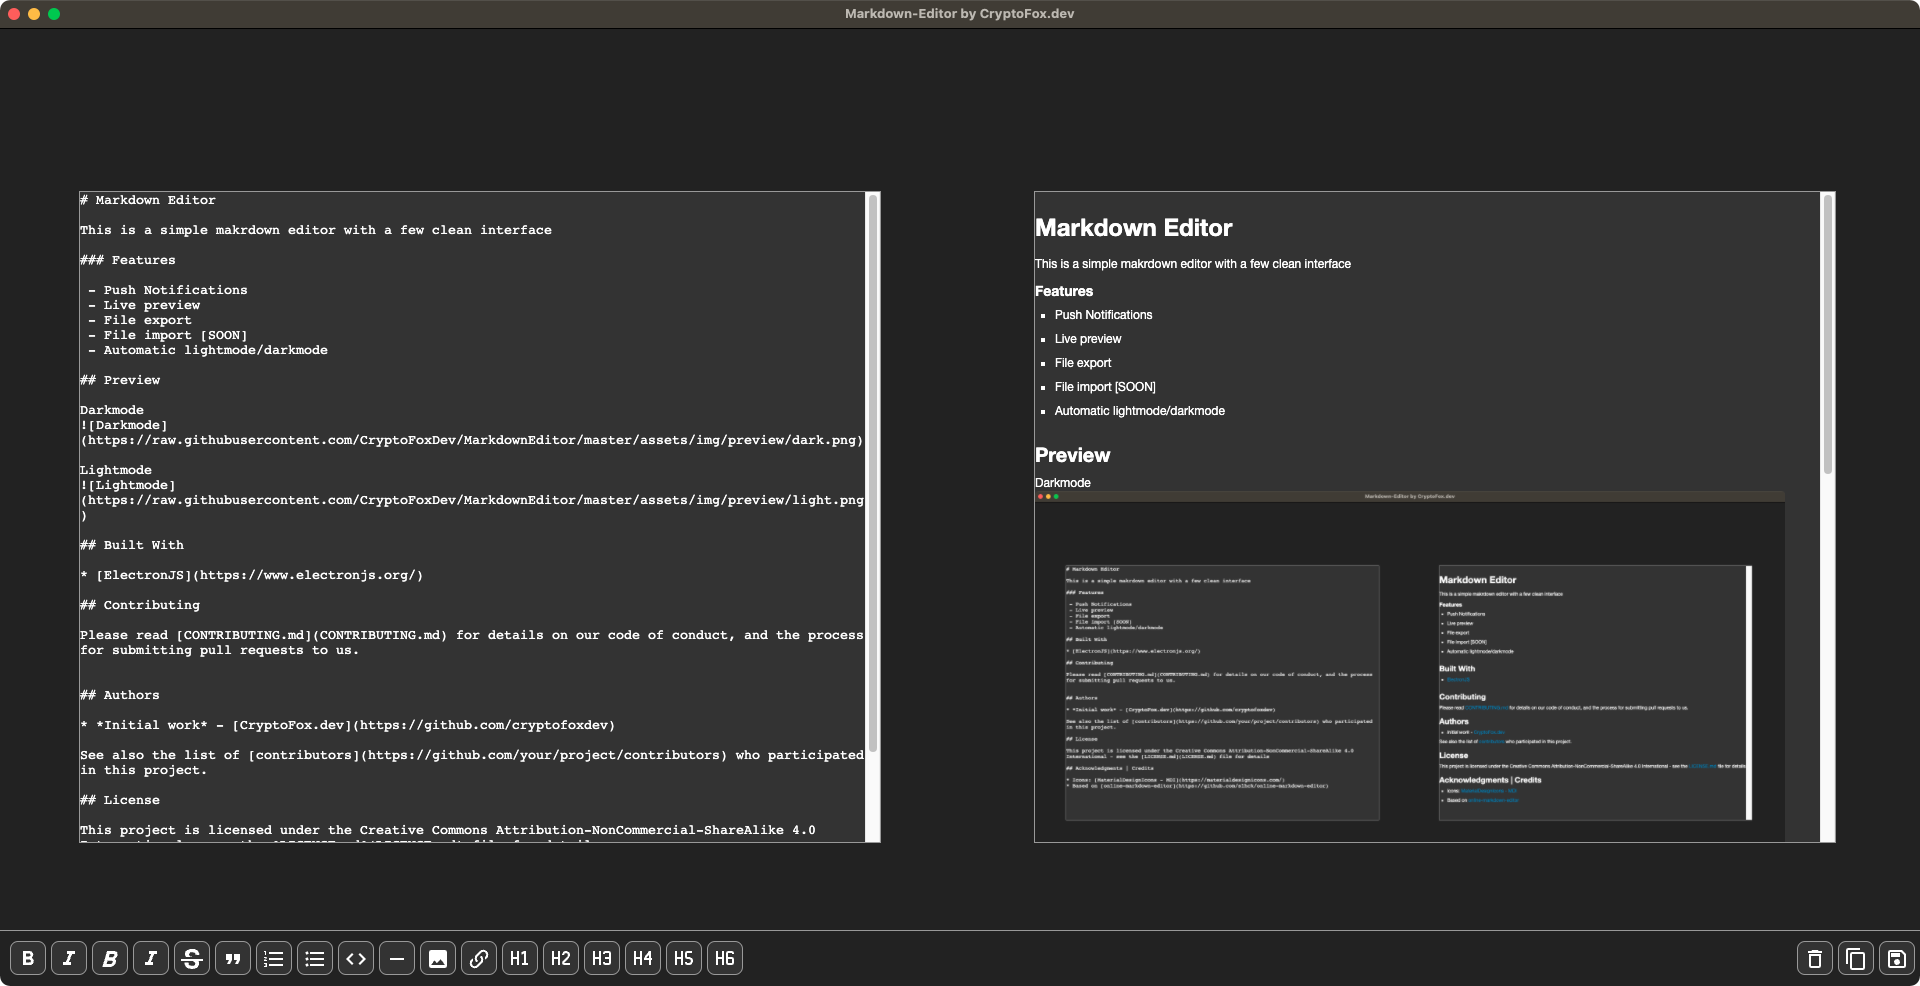
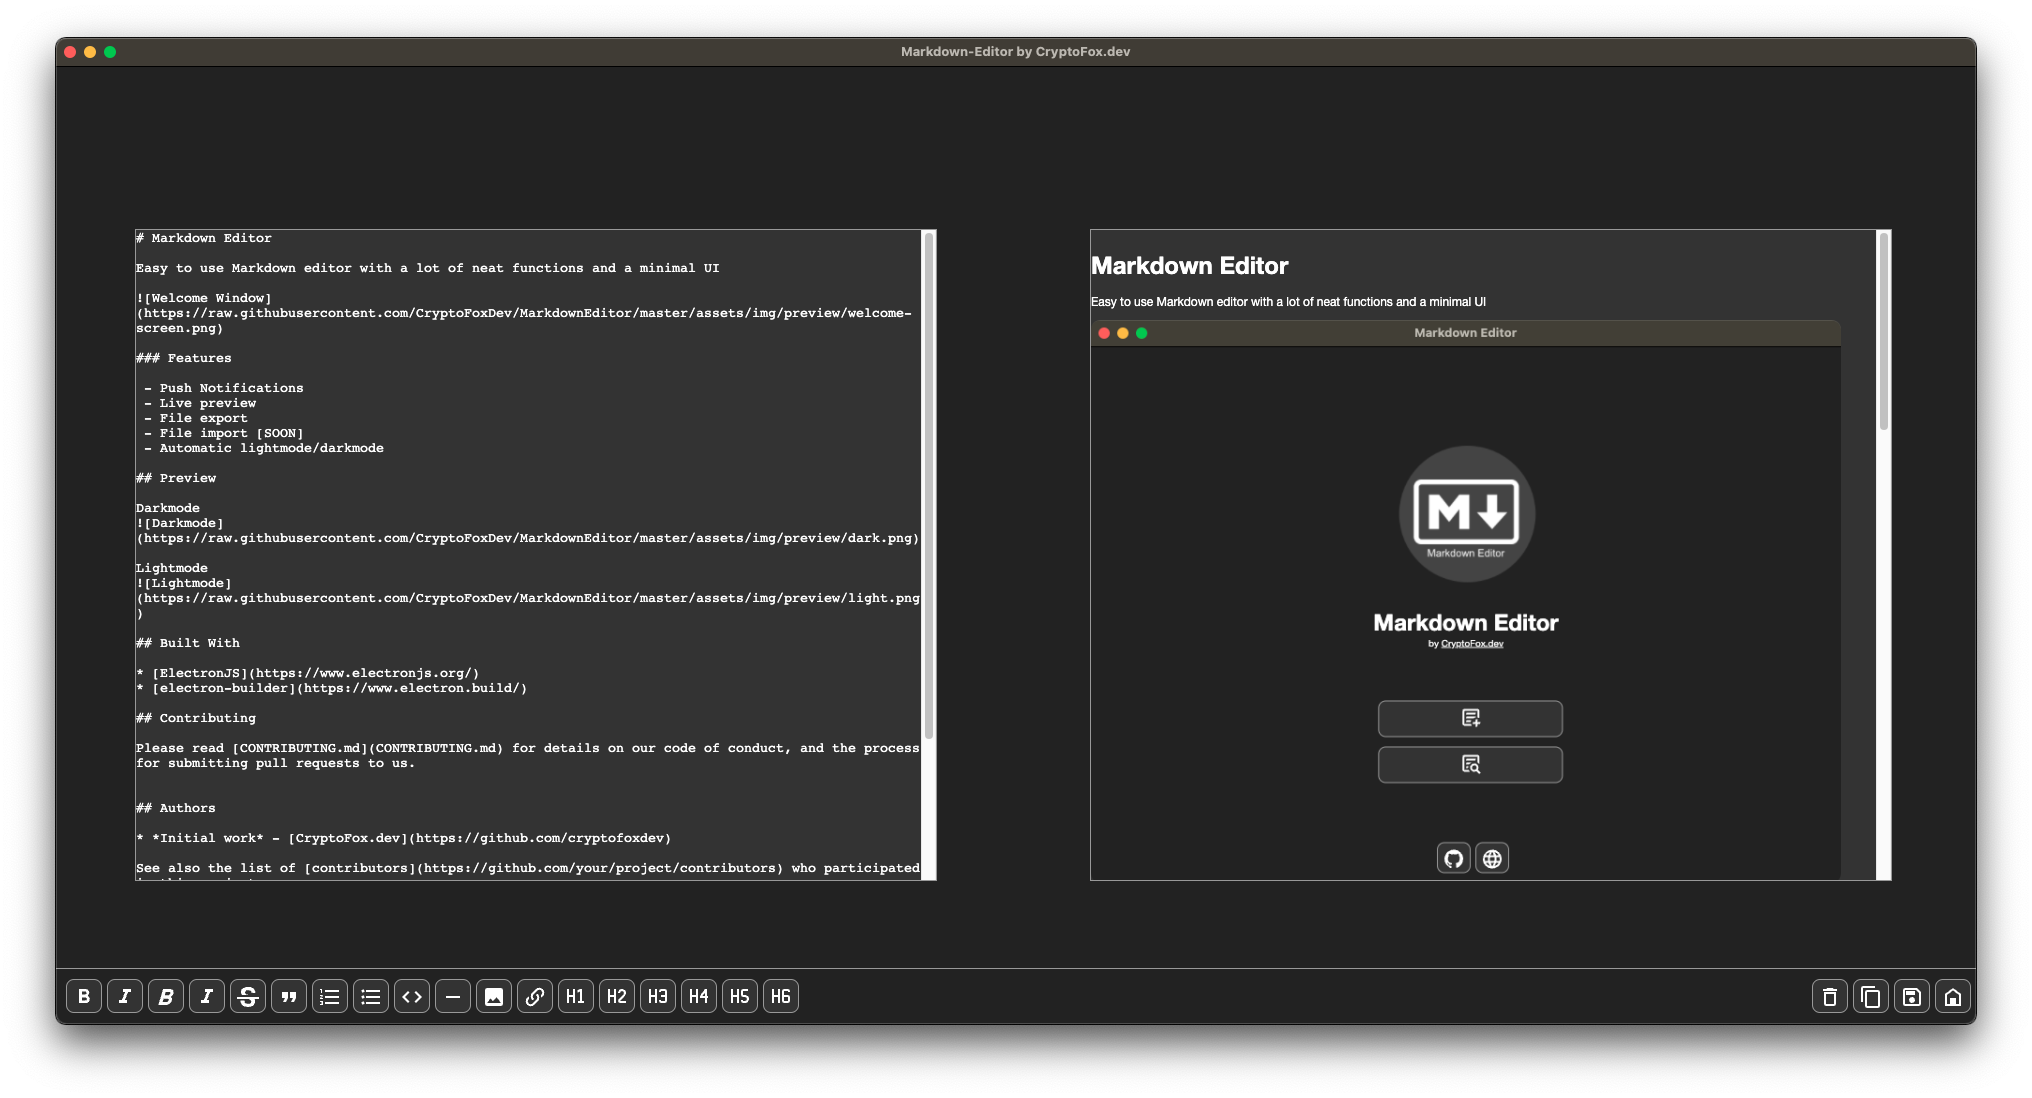
Added function to open files

Changed region(s): [[0.0, 0.0, 1.0, 1.0], [0.5312, 0.213, 0.75, 0.426]]

diff --git a/main.js b/main.js
@@ -1,14 +1,21 @@
-const { app, BrowserWindow, ipcMain, Notification, Menu } = require("electron");
+const {
+  app,
+  BrowserWindow,
+  ipcMain,
+  Notification,
+  Menu,
+  dialog,
+} = require("electron");
 const path = require("path");
+var fs = require("fs");
 
-let editorData;
-module.exports.getEditorData = () => editorData;
+let editorData
 
 function createWindow() {
   const mainWindow = new BrowserWindow({
     width: 800,
     height: 600,
-    icon: path.join(__dirname, 'build/icon.png'),
+    icon: path.join(__dirname, "build/icon.png"),
     webPreferences: {
       preload: path.join(__dirname, "preload.js"),
       nodeIntegration: true,
@@ -23,7 +30,6 @@ function createWindow() {
 //Custom Menu
 const isMac = process.platform === "darwin";
 const template = [
-  // { role: 'appMenu' }
   ...(isMac
     ? [
         {
@@ -51,7 +57,6 @@ const template = [
       },
     ],
   },
-  // { role: 'editMenu' }
   {
     label: "Edit",
     submenu: [
@@ -66,7 +71,6 @@ const template = [
         : [{ role: "delete" }, { type: "separator" }, { role: "selectAll" }]),
     ],
   },
-  // { role: 'viewMenu' }
   {
     label: "View",
     submenu: [
@@ -87,12 +91,15 @@ ipcMain.on("save", (event, arg) => {
 });
 
 ipcMain.on("openEditor", (event, arg) => {
-  editorData = arg
-  openEditor()
+  openEditor(arg);
 });
 
 ipcMain.on("openFile", (event, arg) => {
-  console.log("Will be implemented soon");
+  openFile();
+});
+
+ipcMain.on('getEditorData', function (event, arg) {
+  event.reply('editorData',editorData);
 });
 
 ipcMain.on("home", (event, arg) => {
@@ -104,9 +111,7 @@ function openEditor() {
 }
 
 function saveFile(content) {
-  const credits = '\n\n---\nCreated with [Markdown Editor](https://github.com/CryptoFoxDev/MarkdownEditor)';
-  const { dialog } = require("electron");
-  var fs = require("fs");
+  const credits = "\n\n---\nCreated with [Markdown Editor](https://github.com/CryptoFoxDev/MarkdownEditor)";
   var options = {
     message: "Select where you want to save your file",
     buttonLabel: "Save",
@@ -120,7 +125,7 @@ function saveFile(content) {
 
   dialog.showSaveDialog(null, options).then(({ filePath }) => {
     try {
-      fs.writeFileSync(filePath, content+credits, "utf-8");
+      fs.writeFileSync(filePath, content + credits, "utf-8");
       new Notification({
         title: "File saved successfully",
         body: filePath,
@@ -131,7 +136,32 @@ function saveFile(content) {
   });
 }
 
-function openFile() {}
+function openFile() {
+  const options = {
+    title: "Open Markdown file",
+    //defaultPath: '/path/to/something/',
+    buttonLabel: "Open",
+    filters: [{ name: "Markdown", extensions: ["md"] }],
+    message: "Select the file you want to open",
+  };
+
+  dialog
+    .showOpenDialog(null, options)
+    .then((result) => {
+      fs.readFile(result.filePaths[0], "utf-8", (err, data) => {
+        if (err) {
+          console.log(err.message);
+          return;
+        }
+
+        editorData = data;
+        openEditor();
+      });
+    })
+    .catch((err) => {
+      console.log(err);
+    });
+}
 
 app.whenReady().then(() => {
   createWindow();

diff --git a/editor-renderer.js b/editor-renderer.js
@@ -1,21 +1,28 @@
 const { ipcRenderer } = require("electron");
 
-$(document).ready(function () {
-  if(document.getElementById("input").value != 'undefined'){
+ipcRenderer.on("editorData", function (event, args) {
+  if (!args) {
     getREADME();
+  }else{
+    document.getElementById("input").value = args;
   }
+});
+
+$(document).ready(function () {
+  ipcRenderer.send("getEditorData");
+
   new WMD("input", "toolbar", { preview: "preview" });
 
-  $(".wmd-input").bind('keydown', function(e){
+  $(".wmd-input").bind("keydown", function (e) {
     var TABKEY = 9;
-    if(e.keyCode == TABKEY) {
-        this.value += "    ";
-        if(e.preventDefault) {
-            e.preventDefault();
-        }
-        return false;
+    if (e.keyCode == TABKEY) {
+      this.value += "    ";
+      if (e.preventDefault) {
+        e.preventDefault();
+      }
+      return false;
     }
-}); 
+  });
 });
 
 function getREADME() {
@@ -44,7 +51,7 @@ function addToInput(data) {
 function copyAll() {
   let data = document.getElementById("input").value;
   navigator.clipboard.writeText(data);
-  new Notification('Success', { body: 'Copied content to clipboard' });
+  /*new Notification("Success", { body: "Copied content to clipboard" });*/
 }
 
 document.querySelector("#save").addEventListener("click", function () {

diff --git a/README.md b/README.md
@@ -6,11 +6,10 @@ Easy to use Markdown editor with a lot of neat functions and a minimal UI
 
 ### Features
 
- - Push Notifications
  - Live preview
- - File export
- - File import [SOON]
+ - File import/export
  - Automatic lightmode/darkmode
+ - Push Notifications
 
 ## Preview
 
@@ -34,7 +33,7 @@ Please read [CONTRIBUTING.md](CONTRIBUTING.md) for details on our code of conduc
 
 * *Initial work* - [CryptoFox.dev](https://github.com/cryptofoxdev)
 
-See also the list of [contributors](https://github.com/your/project/contributors) who participated in this project.
+See also the list of [contributors](https://github.com/CryptoFoxDev/Markdown-Editor/contributors) who participated in this project.
 
 ## License
 
